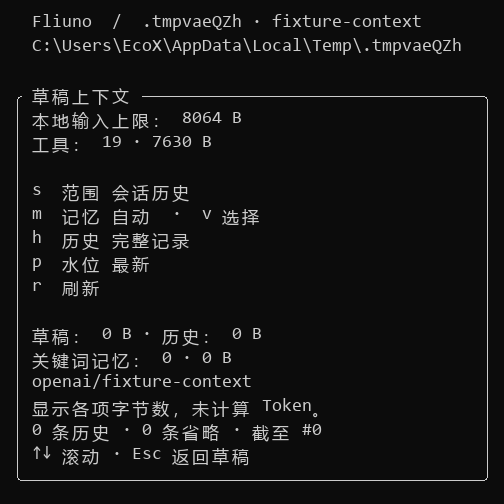
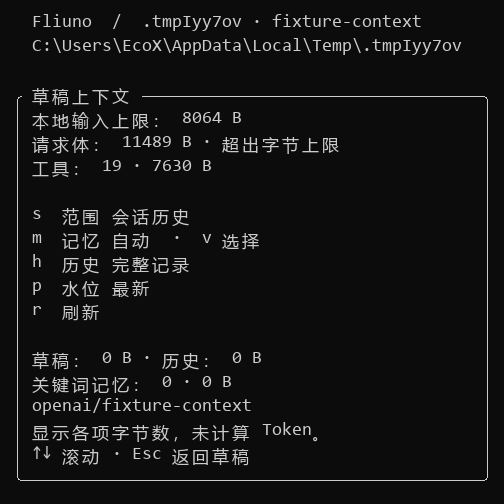
Measure the encoded draft request before sending

diff --git a/crates/fliuno-core/src/context_attribution.rs b/crates/fliuno-core/src/context_attribution.rs
@@ -123,6 +123,33 @@ impl Kernel {
         } else {
             Some(Message::User { text: p.input })
         };
+        // The transient snapshot is never assigned an execution identity or committed.
+        let draft = Task {
+            id: String::new(),
+            session_id: p.session_id,
+            status: TaskStatus::Running,
+            messages: messages.into_iter().collect(),
+            context: Some(context),
+            pending_approval: None,
+            in_flight_tool: None,
+            pending_tool_input: None,
+            model_outcome_unknown: false,
+            active_reply_identity: None,
+            context_memory_omitted_for_budget: false,
+            output: None,
+            model_steps: 0,
+            max_model_steps: None,
+            backend: TaskBackend::Model,
+            backend_authority: None,
+            agent_run: None,
+            remote_continuation: None,
+            agent_session_continuation: None,
+        };
+        let request_size = self
+            .provider
+            .draft_request_size(&draft, &tools)
+            .map_err(|_| Error::Invalid("cannot encode the prospective model request".into()))?;
+        let context = draft.context.as_ref().expect("draft context is installed");
         Ok(DraftContextReport {
             through_sequence: context.through_sequence,
             model: self.provider.reply_identity(),
@@ -141,12 +168,8 @@ impl Kernel {
                 .project_guide
                 .as_ref()
                 .map(ProjectGuideAttribution::from),
-            normalized_input_bytes: crate::provider::context_input_attribution(
-                Some(&context),
-                false,
-                messages.as_slice(),
-                &tools,
-            )?,
+            normalized_input_bytes: crate::provider::input_attribution(&draft, &tools)?,
+            request_size,
         })
     }
 

diff --git a/crates/fliuno-protocol/src/context_attribution.rs b/crates/fliuno-protocol/src/context_attribution.rs
@@ -70,7 +70,15 @@ pub enum DraftMemoryMode {
     KeywordPreview,
 }
 
-/// Snapshot of candidate input fragments, not a token count or a send receipt.
+/// Size of the locally encoded prospective generation request, excluding HTTP headers.
+#[derive(Debug, Clone, Copy, PartialEq, Eq, Serialize, Deserialize, JsonSchema)]
+#[serde(rename_all = "camelCase", deny_unknown_fields)]
+pub struct DraftRequestSize {
+    pub generation_bytes: u64,
+    pub transport_limit_bytes: u64,
+}
+
+/// Snapshot of candidate input, not a token count or a send receipt.
 #[derive(Debug, Clone, Serialize, Deserialize, JsonSchema)]
 #[serde(rename_all = "camelCase", deny_unknown_fields)]
 pub struct DraftContextReport {
@@ -85,4 +93,7 @@ pub struct DraftContextReport {
     pub instructions_bytes: u64,
     pub project_guide: Option<ProjectGuideAttribution>,
     pub normalized_input_bytes: ModelBudgetInputBytes,
+    /// Absent for providers without a local request encoder.
+    #[serde(default, skip_serializing_if = "Option::is_none")]
+    pub request_size: Option<DraftRequestSize>,
 }

diff --git a/crates/fliuno-tui/src/ui/draft_budget.rs b/crates/fliuno-tui/src/ui/draft_budget.rs
@@ -23,6 +23,24 @@ pub(super) fn summary(report: &DraftContextReport, lang: Language) -> Vec<String
                 .into(),
         );
     }
+    if let Some(size) = report.request_size {
+        let limit = report
+            .budget
+            .and_then(|budget| budget.max_input_bytes)
+            .map_or(size.transport_limit_bytes, |limit| {
+                size.transport_limit_bytes.min(u64::from(limit))
+            });
+        let verdict = if size.generation_bytes > limit {
+            lang.text(" · over byte limit", " · 超出字节上限")
+        } else {
+            ""
+        };
+        lines.push(format!(
+            "{} {} B{verdict}",
+            lang.text("Request:", "请求体："),
+            size.generation_bytes
+        ));
+    }
     if report.tool_count > 0 {
         lines.push(format!(
             "{} {} · {} B",

diff --git a/crates/fliuno-providers/src/http.rs b/crates/fliuno-providers/src/http.rs
@@ -19,6 +19,17 @@ const RESPONSE_LIMIT: u64 = 4 * 1024 * 1024;
 const EVENT_LIMIT: usize = 1024 * 1024;
 const COUNT_RESPONSE_LIMIT: u64 = 16 * 1024;
 
+/// Compact body length without allocating a second serialized buffer. Preview
+/// intentionally measures beyond the generation cap so the UI can report excess.
+pub(crate) fn draft_request_size(
+    body: &Value,
+) -> Result<Option<fliuno_protocol::DraftRequestSize>, String> {
+    Ok(Some(fliuno_protocol::DraftRequestSize {
+        generation_bytes: fliuno_core::json_size(body).map_err(|error| error.to_string())? as u64,
+        transport_limit_bytes: REQUEST_LIMIT as u64,
+    }))
+}
+
 struct BoundedRequestBody {
     bytes: Vec<u8>,
     limit: usize,

diff --git a/crates/fliuno-app-server/tests/process/model_budget.rs b/crates/fliuno-app-server/tests/process/model_budget.rs
@@ -1016,6 +1016,16 @@ fn draft_context_previews_local_fragments_without_dispatch_or_audit() {
     let requests = wire.requests();
     assert_eq!(requests.len(), 3);
     assert_eq!(
+        report["requestSize"]["generationBytes"],
+        requests[2].headers["content-length"]
+            .parse::<u64>()
+            .unwrap()
+    );
+    assert_eq!(
+        report["requestSize"]["transportLimitBytes"],
+        8 * 1024 * 1024
+    );
+    assert_eq!(
         requests[2].body["tools"].as_array().unwrap().len(),
         report["toolCount"].as_u64().unwrap() as usize
     );

diff --git a/crates/fliuno-core/src/provider.rs b/crates/fliuno-core/src/provider.rs
@@ -231,6 +231,16 @@ pub trait ModelProvider: Send + Sync {
         None
     }
 
+    /// Measure the first generation envelope using the same encoder as execution.
+    /// Implementations must not perform IO, count remotely, or dispatch generation.
+    fn draft_request_size(
+        &self,
+        _task: &Task,
+        _tools: &[ToolSpec],
+    ) -> std::result::Result<Option<fliuno_protocol::DraftRequestSize>, String> {
+        Ok(None)
+    }
+
     fn supports_progress(&self) -> bool {
         false
     }

diff --git a/crates/fliuno-providers/src/anthropic.rs b/crates/fliuno-providers/src/anthropic.rs
@@ -198,6 +198,17 @@ impl ModelProvider for AnthropicProvider {
         }
     }
 
+    fn draft_request_size(
+        &self,
+        task: &Task,
+        tools: &[ToolSpec],
+    ) -> Result<Option<fliuno_protocol::DraftRequestSize>, String> {
+        let body = self
+            .request(task, tools, true)
+            .map_err(|error| error.to_string())?;
+        crate::http::draft_request_size(&body)
+    }
+
     fn supports_progress(&self) -> bool {
         true
     }

diff --git a/crates/fliuno-providers/src/gemini.rs b/crates/fliuno-providers/src/gemini.rs
@@ -641,6 +641,17 @@ impl ModelProvider for GeminiProvider {
         }
     }
 
+    fn draft_request_size(
+        &self,
+        task: &Task,
+        tools: &[ToolSpec],
+    ) -> Result<Option<fliuno_protocol::DraftRequestSize>, String> {
+        let body = self
+            .request(task, tools, true)
+            .map_err(|error| error.to_string())?;
+        crate::http::draft_request_size(&body)
+    }
+
     fn supports_progress(&self) -> bool {
         true
     }

diff --git a/crates/fliuno-providers/src/openai.rs b/crates/fliuno-providers/src/openai.rs
@@ -229,6 +229,17 @@ impl ModelProvider for OpenAiProvider {
         }
     }
 
+    fn draft_request_size(
+        &self,
+        task: &Task,
+        tools: &[ToolSpec],
+    ) -> Result<Option<fliuno_protocol::DraftRequestSize>, String> {
+        let body = self
+            .request(task, tools, true)
+            .map_err(|error| error.to_string())?;
+        crate::http::draft_request_size(&body)
+    }
+
     fn supports_progress(&self) -> bool {
         true
     }

diff --git a/crates/fliuno-providers/src/openai_chat.rs b/crates/fliuno-providers/src/openai_chat.rs
@@ -168,6 +168,15 @@ impl ModelProvider for ChatProvider {
         vec![ModelInputType::Text, ModelInputType::Image]
     }
 
+    fn draft_request_size(
+        &self,
+        task: &Task,
+        tools: &[ToolSpec],
+    ) -> Result<Option<fliuno_protocol::DraftRequestSize>, String> {
+        let body = self.request(task, tools, true)?;
+        crate::http::draft_request_size(&body)
+    }
+
     fn supports_progress(&self) -> bool {
         true
     }

diff --git a/crates/fliuno-tui/tests/workbench.rs b/crates/fliuno-tui/tests/workbench.rs
@@ -4156,6 +4156,7 @@ fn draft_context_reaches_bilingual_budget_from_slash_and_keeps_draft() {
         console.resize(rows, cols);
         console.ready();
         console.expect("本地输入上限");
+        console.expect("超出字节上限");
         console.expect("工具");
         console.expect("Esc 返回草稿");
         console.capture(&format!("draft-budget-zh-{cols}"));

diff --git a/docs/workbench.md b/docs/workbench.md
@@ -87,7 +87,7 @@ language = "zh-CN"
 
 在 0.0.23 开发版，写草稿时按 `F3`，或在空输入框键入 `/context` 后按 `Tab`。也可按 `F1` 搜索「查看草稿上下文」。面板先显示当前上限和工具定义体积，下方保留历史、记忆、草稿以及项目指南用量。`↑` / `↓` 和 `PageUp` / `PageDown` 可翻看，`Home` 回到明细开头，`Esc` 返回原草稿。
 
-本地预检以字节为单位。若使用供应商计数，面板显示配置的 Token 上限；预览不会发送计数请求。各项是独立的体积参考，不能相加来判断是否一定能发送；附件暂未计入。`h` 可切换为仅对话历史，`m` 可关闭此次记忆，`s` 可选择不继承历史和指南。若空草稿的工具开销就接近上限，减少历史并不能解决固定开销。已发送任务的用量和错误仍在该任务的 `C` 面板查看。[内核计量口径](context.md#发送前检查草稿)
+本地预检以字节为单位。若使用供应商计数，面板显示配置的 Token 上限；预览不会发送计数请求。面板单独显示完整请求体的字节数，超过本地或传输字节上限时会直接提示；各项片段字节仅供排查，附件暂未计入。`h` 可切换为仅对话历史，`m` 可关闭此次记忆，`s` 可选择不继承历史和指南。若空草稿的工具开销就接近上限，减少历史并不能解决固定开销。已发送任务的用量和错误仍在该任务的 `C` 面板查看。[内核计量口径](context.md#发送前检查草稿)
 
 ![48 列 Windows 终端：草稿上下文面板](assets/draft-context-zh-v023.png)
 
